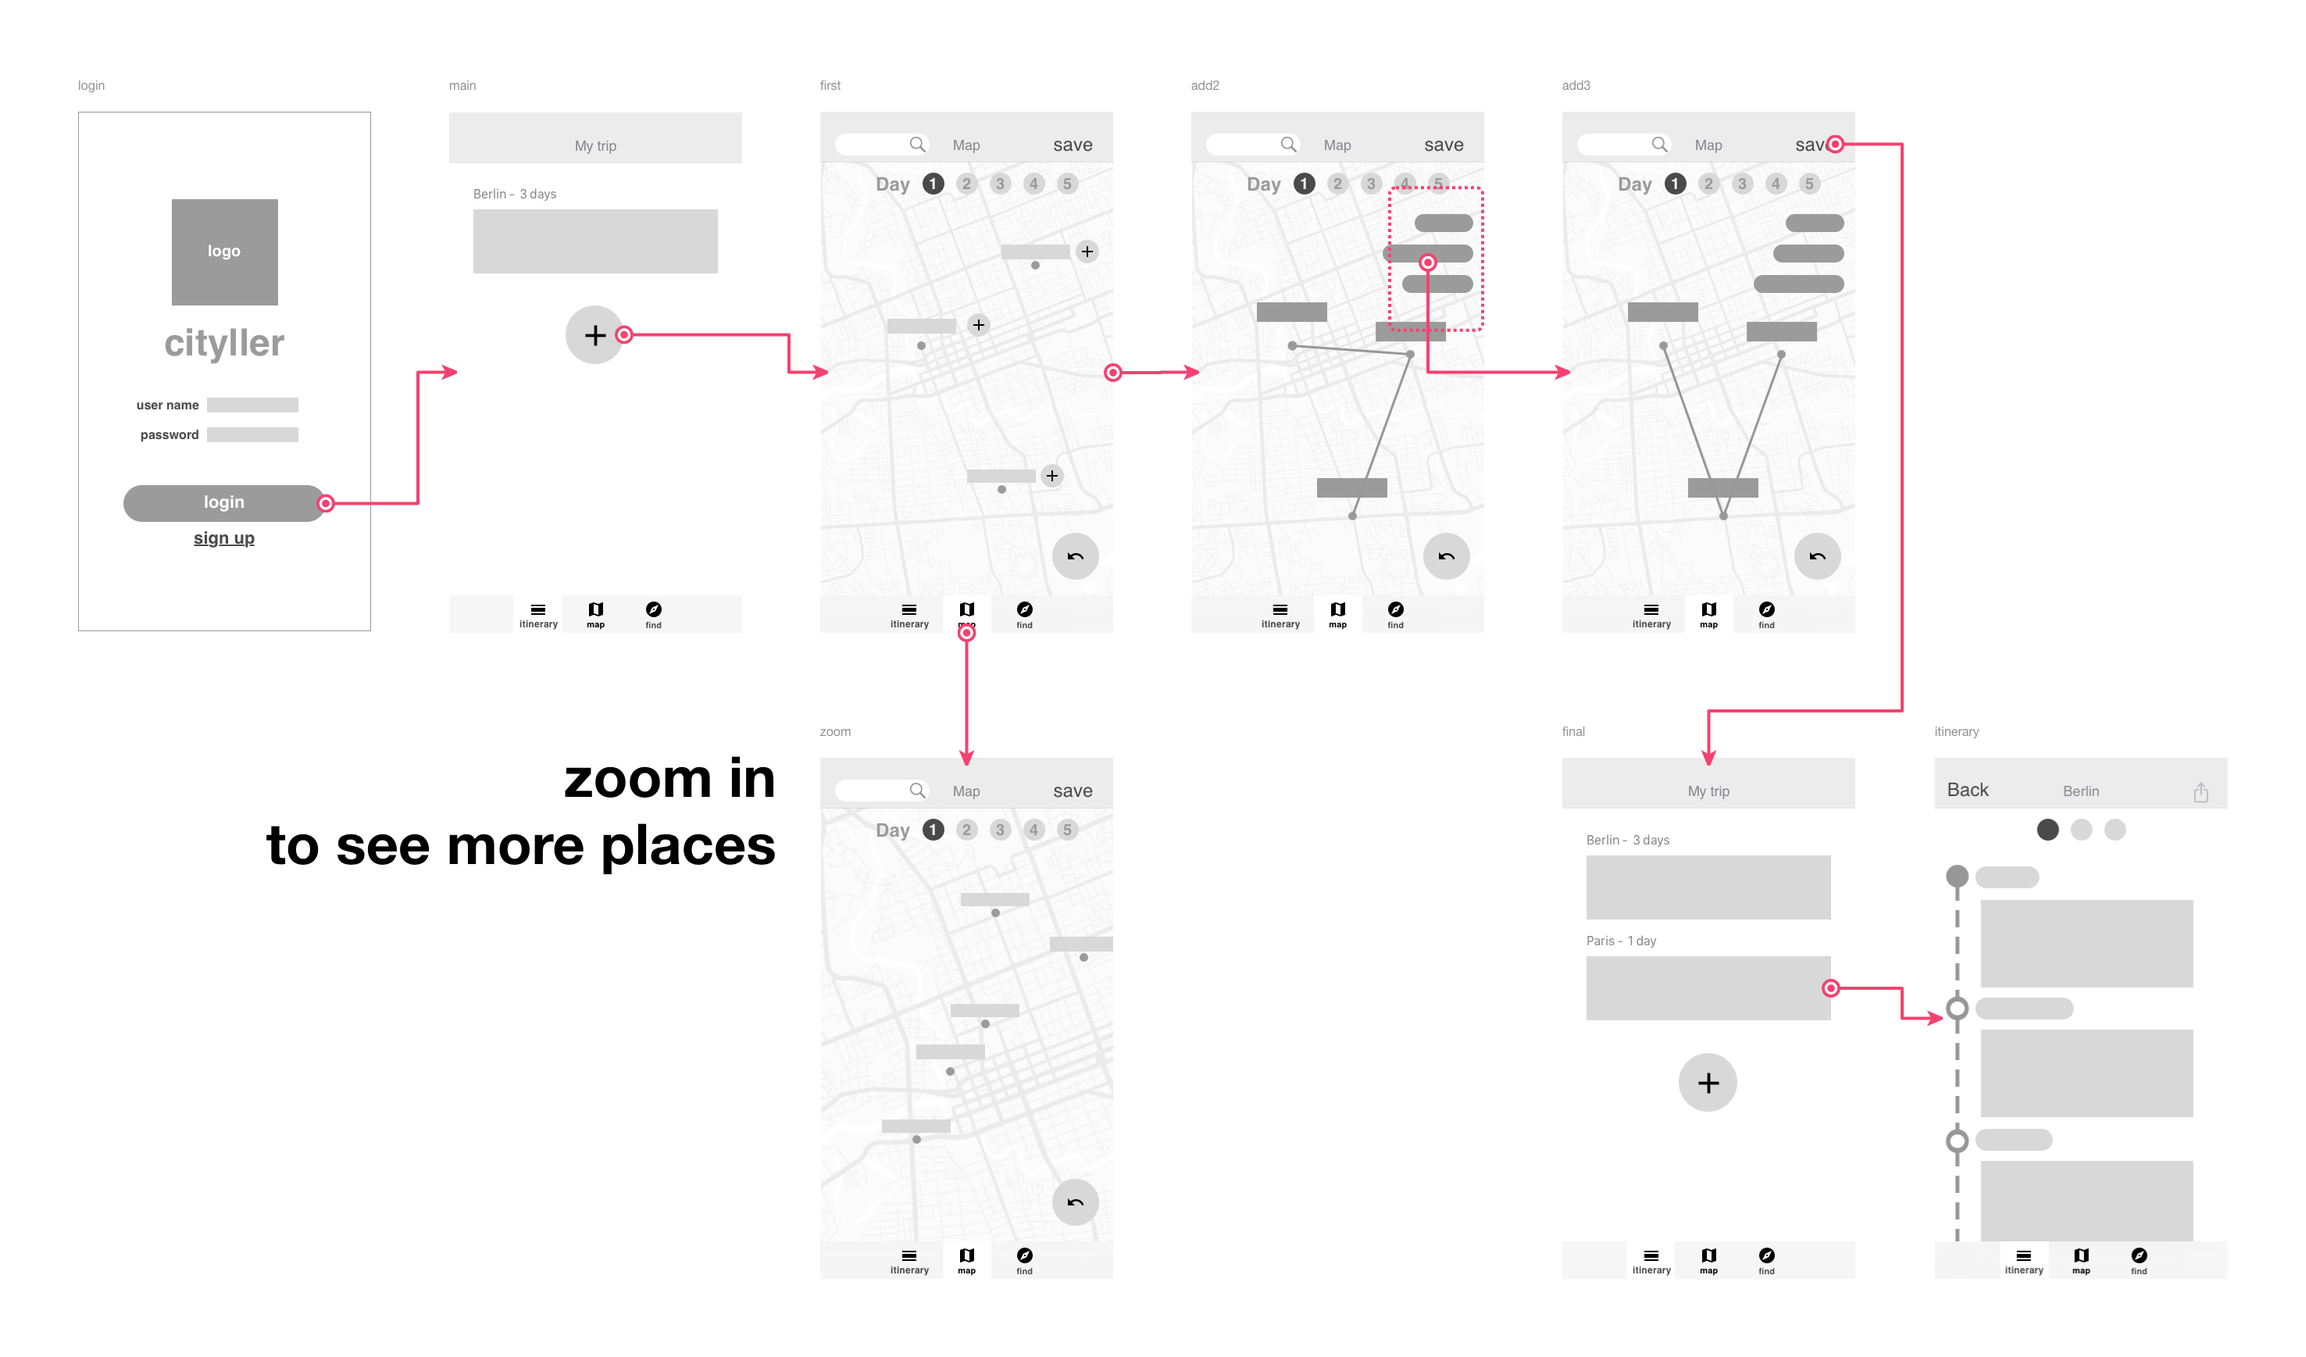
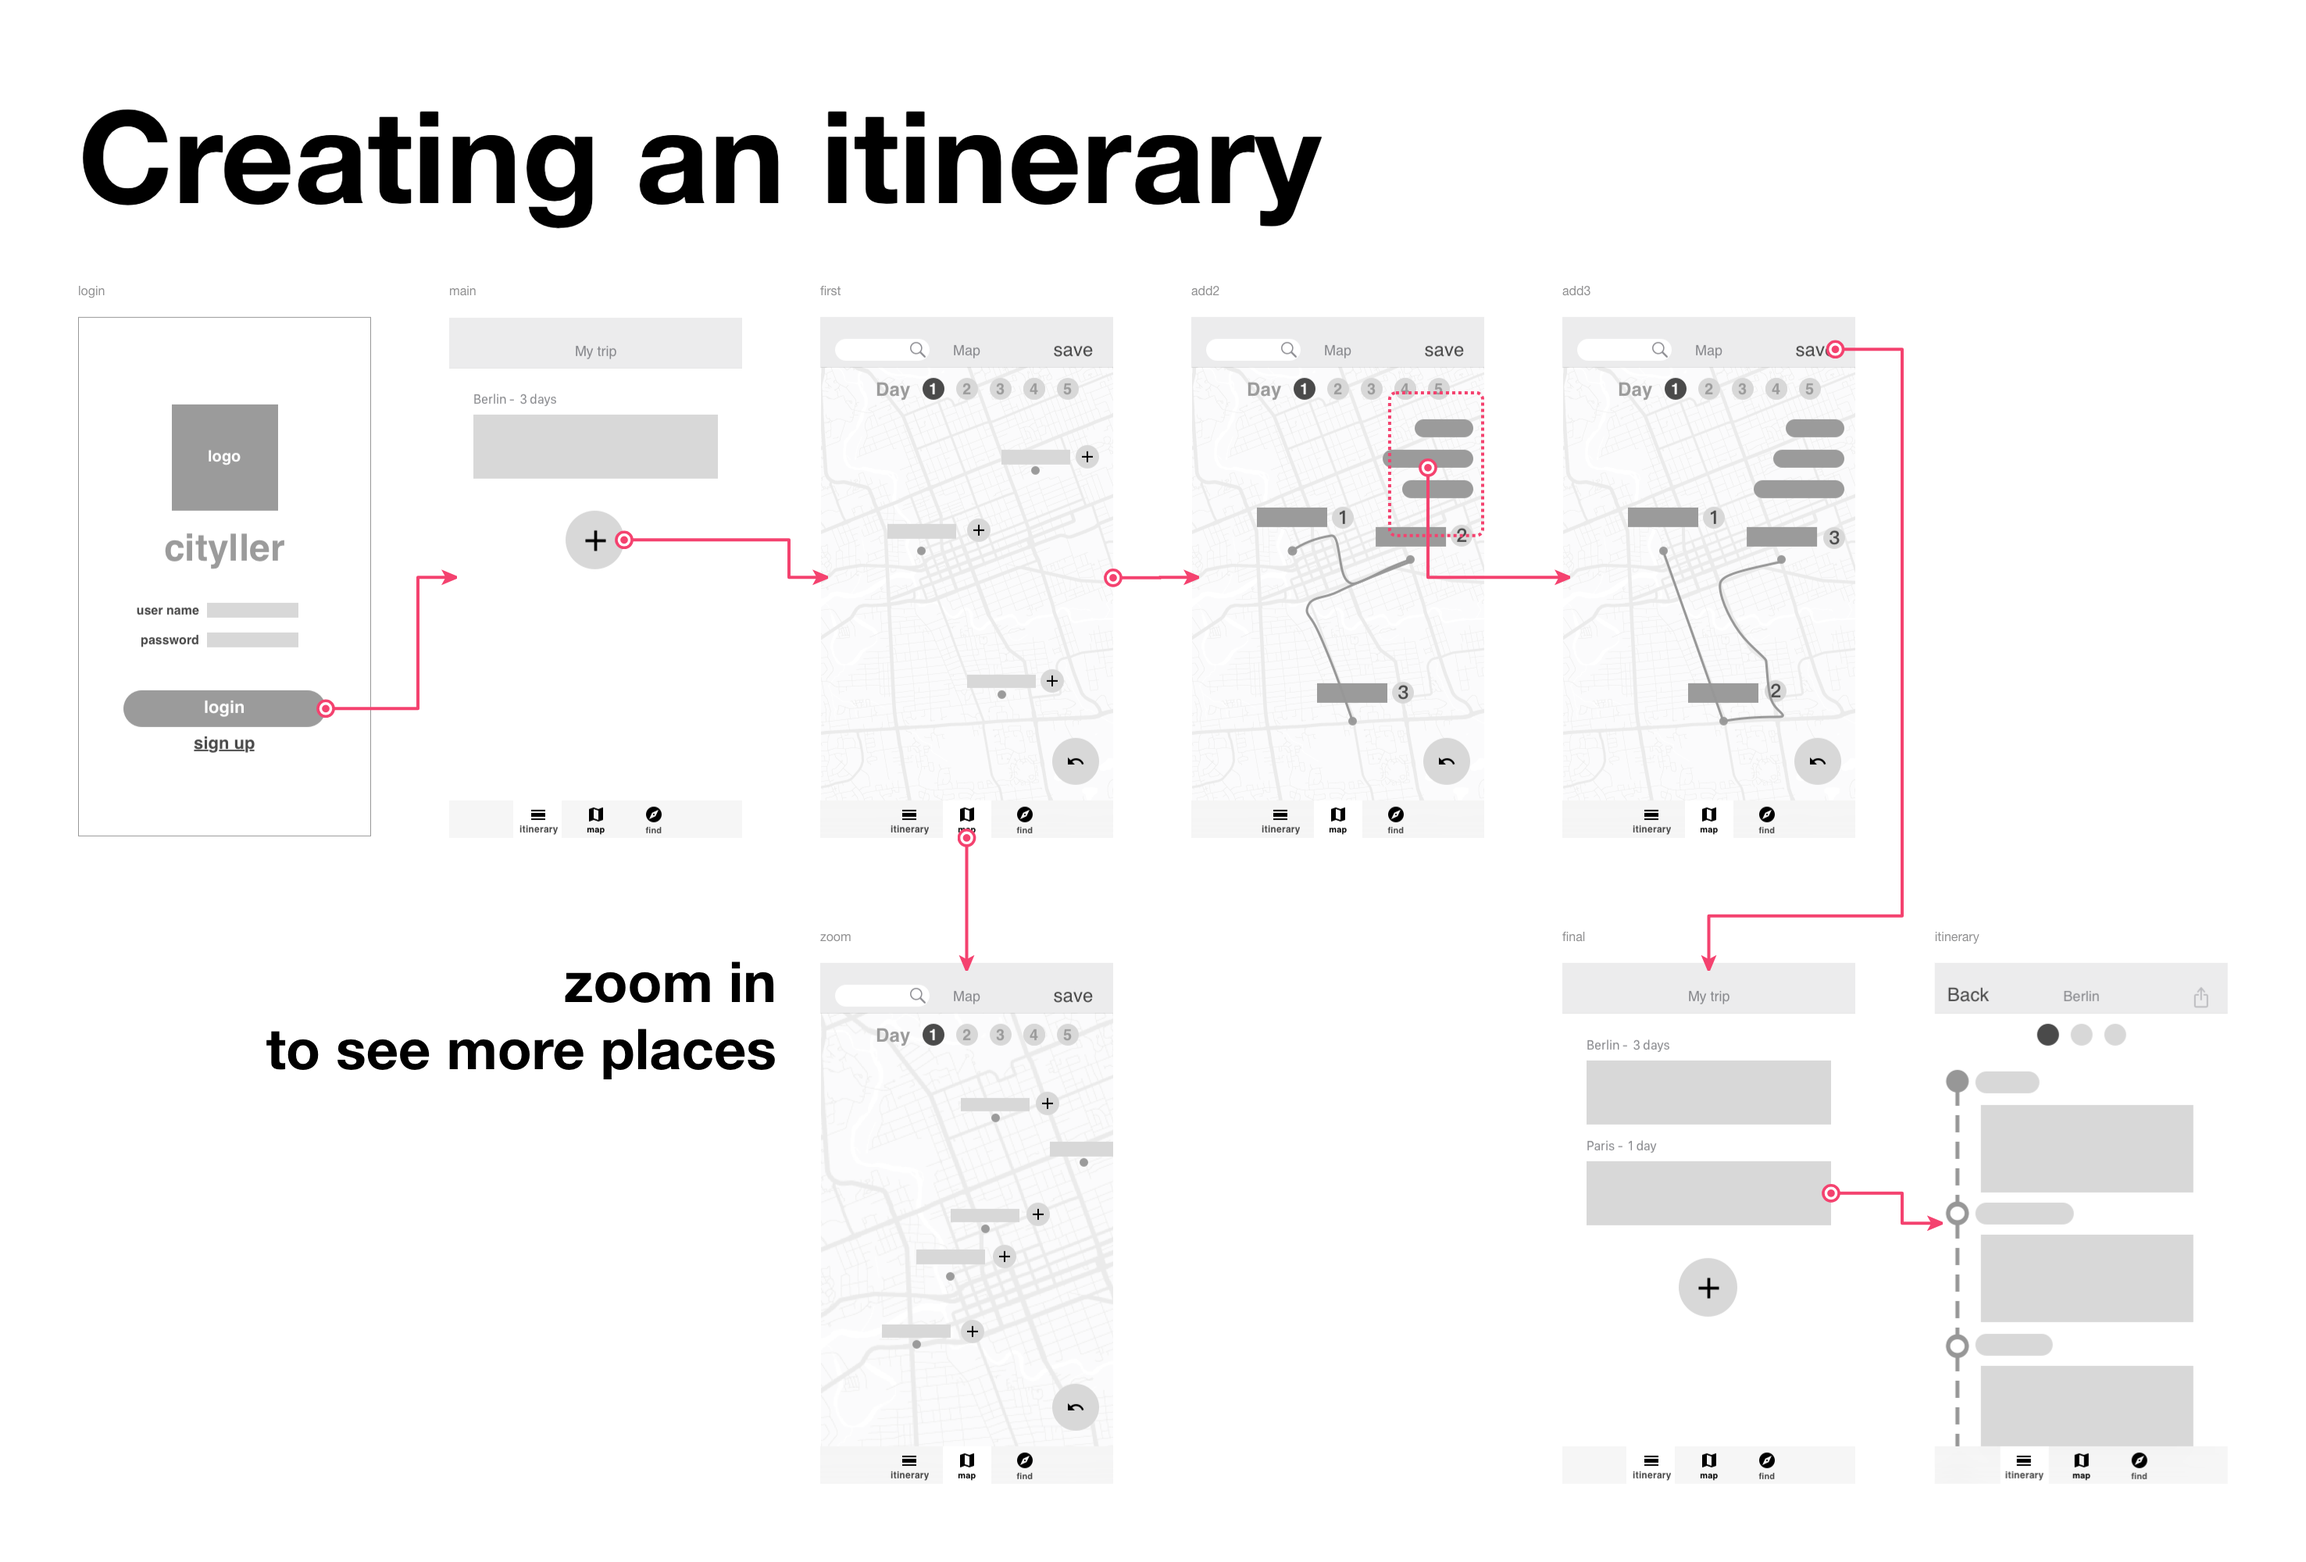
map 3/27

diff --git a/map.html b/map.html
@@ -50,7 +50,8 @@
       <div class="five wide column">
         <div class="intro">
           <h3 class="ui header">INTRO</h3>
-          <p>Cityller is a travel itinerary app based on an interactive map, which provides an immersional experience with fewer page jumping.</p>
+          <p>Cityller is a travel itinerary app based on an interactive map, which provides an immersional experience
+            with fewer page jumping.</p>
           <p>This is originally a project of the one-week workshop <a
               href='https://ex-situ.lri.fr/workshops/hci-bootcamp-2018'>2018 HCI bootcamp</a>, taught by Wendy Mackay at
             Université Paris Sud. I worked with Yuanyang ZHONG, Lemeng XU and Qiwei GAO.</p>
@@ -79,7 +80,7 @@
     <div class="row">
       <div class="eight wide column">
         <h2 class="ui header">User research</h2>
-        <p>We interviewed eight users, mainly university students, using <b>story interview</b> method,
+        <p>We interviewed 8 users, mainly university students, using <b>story interview</b> method,
           by asking a user questions that elicit recent stories about making itinerary。
         </p>
 
@@ -87,65 +88,58 @@
           problems.</p>
 
         <p>
-          <li>Making an itinerary on a map App is difficult</li>
-          <li>Watch their phones a lot of times to get insturctions when navigation</li>
-          <li>Itinerary apps don't provide transportation information</li>
+          <li>They spend a lot of time creating an itinerary, jumping between different apps.</li>
+          <li>They don't know where to visit.</li>
+          <li>They watch their phones very often when navigation</li>
         </p>
 
-        <p>We created 3 personas to represent the users we designed for. Jon was the <b>extreme
-            personna</b> who pushed the limits of the situation to test the usability.</p>
+        <p>For these problems, we created 2 personas to represent the users we designed for.</p>
       </div>
     </div>
 
-    <div class="row">
-      <div class="one wide column"></div>
-
-      <div class="five wide column">
-        <img class="ui image" src="img/map/p1.png" />
-
-      </div>
-      <div class="five wide column">
-        <img class="ui image" src="img/map/p2.png" />
-      </div>
-      <div class="five wide column">
-        <img class="ui image" src="img/map/p3.png" />
-      </div>
-    </div>
 
     <div class="row">
-      <div class="ui left aligned text container">
-        <h2 class="ui header">01 Creating itinerary smoothly</h2>
+      <div class="eight wide column">
+        <h2 class="ui header">01 Smooth creation experience</h2>
         <div class="ui divider"></div>
       </div>
     </div>
 
     <div class="row">
       <div class="eight wide column">
-        <p>This feature was designed for Jon to provide a smooth and quick experience of creating a itinerary.</p>
-        <h3 class="ui header">Brainstorming</h3>
-        <p>We compared the map apps, paper maps and travel plan apps. Then we thought bringing the drawing experience on
-          paper map to the mobile device was a good idea because drawing was quickly and intuitively.</p>
-        <p>Some basic interactions with paper map were marking something and drawing lines.</p>
+        <img class="ui image" src="img/map/p1.png" />
       </div>
 
     </div>
 
     <div class="row">
       <div class="eight wide column">
+
+        <h3 class="ui header">Brainstorming</h3>
+        <p>We used <b>extreme personna</b> who pushed the limits of the situation to test the usability. Jon was a very
+          frequent user so the interaction should be simple and efficiency.</p>
+        <p>We compared the map apps, paper maps and travel plan apps. Then we tried to combine the experience of these.
+          Users can create an itinerary based on map with additional informations.</p>
+
+      </div>
+    </div>
+
+    <div class="row">
+      <div class="ten wide column">
         <img class="ui image" src="img/map/comp.png" />
       </div>
     </div>
 
     <div class="row">
       <div class="eight wide column">
-        <p>We used <b>instrumental design</b>, brought up by Michel Beaudouin-Lafon in his <a className='link3'
-            href='https://dl.acm.org/citation.cfm?id=332473'>paper</a>, to generate ideas about how a user interacted
-          with our app. The key principles are reification, polymorphism and reuse.</p>
+        <p>We used <a className='link3' href='https://dl.acm.org/citation.cfm?id=332473'>instrumental design</a>, to
+          generate ideas about how a user interacted
+          with the map. Some objects of interest are listed in map view and itinerary view.</p>
       </div>
     </div>
 
     <div class="row">
-      <div class="eight wide column">
+      <div class="ten wide column">
         <img class="ui image" src="./img/map/table.png" />
       </div>
     </div>
@@ -166,12 +160,15 @@
     <div class="row">
       <div class="eight wide column">
         <p>We made a paper prototype to simulate the interaction process and shot a video to capture interactions.</p>
-        <p>Then I found some problems.
-          <li>Drawing on small screen devices was not a comfortable interaction.</li>
-          <li>The drawing line would be conflict with the actual transportation routes</li>
+
+        <p>We tried to use the marking and drawing from paper map on the mobile device. But I found some problems.
+          <li>Drawing on small screens was not comfortable </li>
+          <li>The drawing line would be conflict with the actual transportation routes.</li>
         </p>
-        <p>But we still wanted to keep immersional experience on paper map. I changed the drawing on map view to clicking and used the line to show order only.
-          Then we designed a sidebar. The sidebar was the reification of a backpack.</p>
+        <p>I changed the interaction to clicking and used the line to show the actual transportation routes.</p>
+        <h3 class="ui header">Sidebar</h3>
+        <p>Then we designed a sidebar where users can set the order quickly. The sidebar was the reification of a
+          backpack.</p>
       </div>
     </div>
 
@@ -199,16 +196,8 @@
     </div>
 
     <div class="row">
-      <div class="ui left aligned text container">
-        <h3 class="ui headr">Wireframe</h3>
-      </div>
-    </div>
-
-    <div class="row">
-      <div class="ten wide column">
-        <p>Main editing process</p>
+      <div class="twelve wide column">
         <img class="ui image" src="./img/map/w1.png" />
-        <p>Search process</p>
         <img class="ui image" src="./img/map/w2.png" />
 
       </div>
@@ -216,32 +205,35 @@
 
     <div class="row">
       <div class="eight wide column">
-        <h2 class="ui header">02 Browsing & Modifying freely</h2>
+        <h2 class="ui header">02 Browsing & Modifying experience</h2>
         <div class="ui divider"></div>
 
+
       </div>
     </div>
 
     <div class="row">
-      <div class="ui left aligned text container">
-        <p>For Silvia, she could easily find other's shared itinerary and made some changes to meet her own needs.</p>
+      <div class="eight wide column">
+        <img class="ui image" src="img/map/p2.png" />
+      </div>
+    </div>
 
+    <div class="row">
+      <div class="eight wide column">
         <p>Users can view other's itinerary in both map view and itinerary view to get the relative location and
-          possible transportations.</p>
-
-        <h3 class="ui headr">Wireframe</h3>
+          possible transportations. And they can make some changes to meet their own needs.</p>
       </div>
     </div>
 
     <div class="row">
-      <div class="ten wide column">
+      <div class="twelve wide column">
         <img class="ui image" src="./img/map/w3.png" />
       </div>
     </div>
 
     <div class="row">
       <div class="eight wide column">
-        <h2 class="ui header">03 Watching phone lessly</h2>
+        <h2 class="ui header">03 Better navigation experience</h2>
         <div class="ui divider"></div>
 
 
@@ -251,7 +243,8 @@
     <div class="row">
       <div class="four wide column"></div>
       <div class="two wide column">
-        <p>In the interviews, some users mentioned they got the metro to the wrong direction or can't find which direction to go when using Google Maps.</p>
+        <p>In the interviews, some users mentioned they got the metro to the wrong direction or can't find which
+          direction to go when using Google Maps.</p>
         <p>I analysed the transportation information of Google Maps and found some problems.</p>
 
       </div>
@@ -264,8 +257,8 @@
 
     <div class="row">
       <div class="eight wide column">
-          <p>To reduce the times of taking out the phone to see where to go, I redesigned this transportation information
-              part.</p>
+        <p>To reduce the times of taking out the phone to see where to go, I redesigned this transportation information
+          part.</p>
       </div>
     </div>
 
@@ -276,7 +269,7 @@
     </div>
 
     <div class="row">
-      <a href="./index"><button class="ui basic pink button">Back to HOME</button></a>
+      <a href="./index"><button class="ui basic pink button">Home</button></a>
 
     </div>
 
